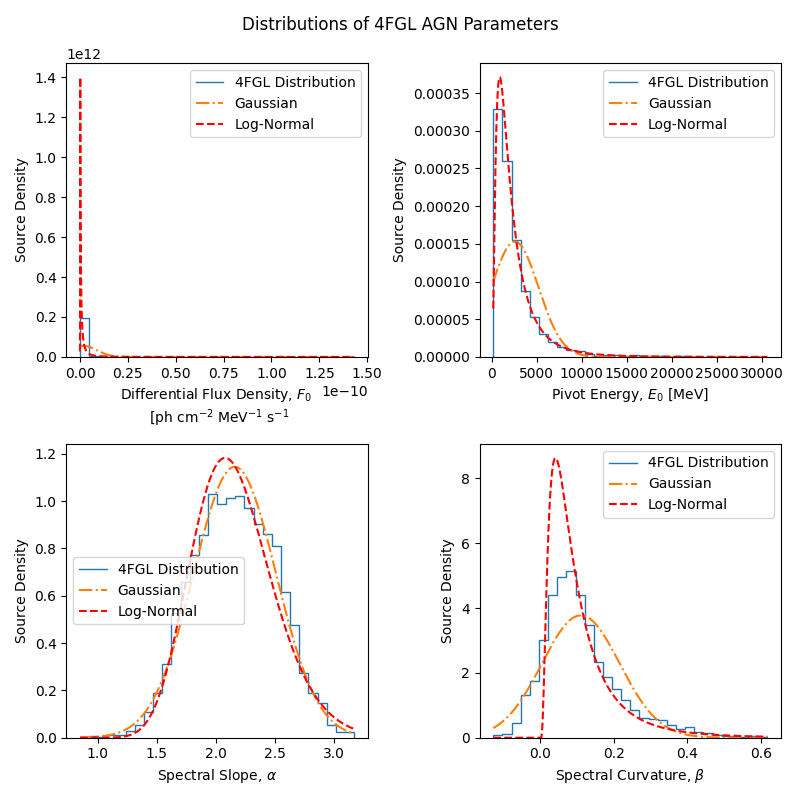
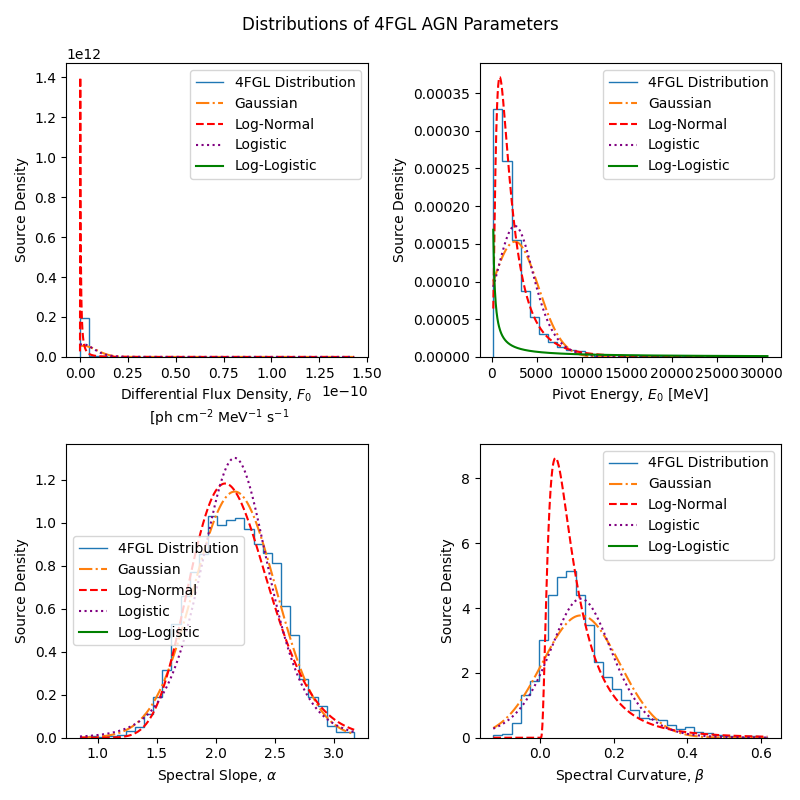
Working on log-logistic distribution fit for parameters.

diff --git a/data_simulation/analysis/visualisation.py b/data_simulation/analysis/visualisation.py
@@ -3,7 +3,7 @@ from itertools import combinations, product
 import matplotlib.pyplot as plt
 import numpy as np
 import numpy.typing as npt
-from scipy.stats import lognorm, norm
+from scipy.stats import fisk, logistic, lognorm, norm
 from .utils import log_normal_parameter
 import seaborn as sns
 
@@ -133,6 +133,10 @@ def plot_parameter_distributions(sources, source_type: str, directory: str):
         # Calculate distribution parameters of data
         mean, sigma = np.mean(values), np.std(values, ddof=1)
         scale, s = log_normal_parameter(values)
+        logistic_scale = sigma * (np.sqrt(3) / np.pi)
+        log_logistic_scale = np.log(np.std(values, ddof=1) * (np.sqrt(3) / np.pi))
+
+        # np.std(np.log(values), ddof=1) * (np.sqrt(3) / np.pi)
 
         # Plot Gaussian using mean and standard deviation of data
         x_values = np.linspace(np.min(values), np.max(values), 1000)
@@ -142,6 +146,14 @@ def plot_parameter_distributions(sources, source_type: str, directory: str):
         # any of the other AGN parameters)
         subplot.plot(x_values, lognorm.pdf(x_values, s=s, scale=scale), color='red', label='Log-Normal',
                      linestyle='--')
+
+        # Plot Logistic distribution using mean and standard deviation of data (I noted similarity of shapes)
+        subplot.plot(x_values, logistic.pdf(x_values, loc=mean, scale=logistic_scale), color='purple', label='Logistic',
+                     linestyle=":")
+
+        # Plot log-logistic distribution using mean and standard deviation of data (I noted similarity of shapes)
+        subplot.plot(x_values, fisk.pdf(x_values, scale=np.exp(np.mean(np.log(x_values))), c=1 / log_logistic_scale), color='green',
+                     label='Log-Logistic')
 
         subplot.set_xlabel(axis_labels[values.name])
 

diff --git a/data_simulation/create_mock_catalog.py b/data_simulation/create_mock_catalog.py
@@ -995,7 +995,7 @@ agn_rows, pulsar_rows, source_detection_threshold, fluxes_4fgl = catalog_data_pr
 
 # Analyse parameters, their distributions, and their correlations
 
-# analysis(agn_rows, pulsar_rows)
+analysis(agn_rows, pulsar_rows)
 
 # fitting_agn_pivot_energy_flux_density_relation(agn_rows.copy())
 
@@ -1007,9 +1007,9 @@ agn_rows, pulsar_rows, source_detection_threshold, fluxes_4fgl = catalog_data_pr
 
 # agns = generate_mock_agn_catalog(agn_rows.copy(), num_agns=100, extra=30)
 
-agns = generate_mock_agn_catalog(agn_rows.copy(), num_agns=300, detection_threshold=source_detection_threshold)
+# agns = generate_mock_agn_catalog(agn_rows.copy(), num_agns=300, detection_threshold=source_detection_threshold)
 
-print(agns[0])
+# print(agns[0])
 
 # Generate simulated pulsar sources
 
